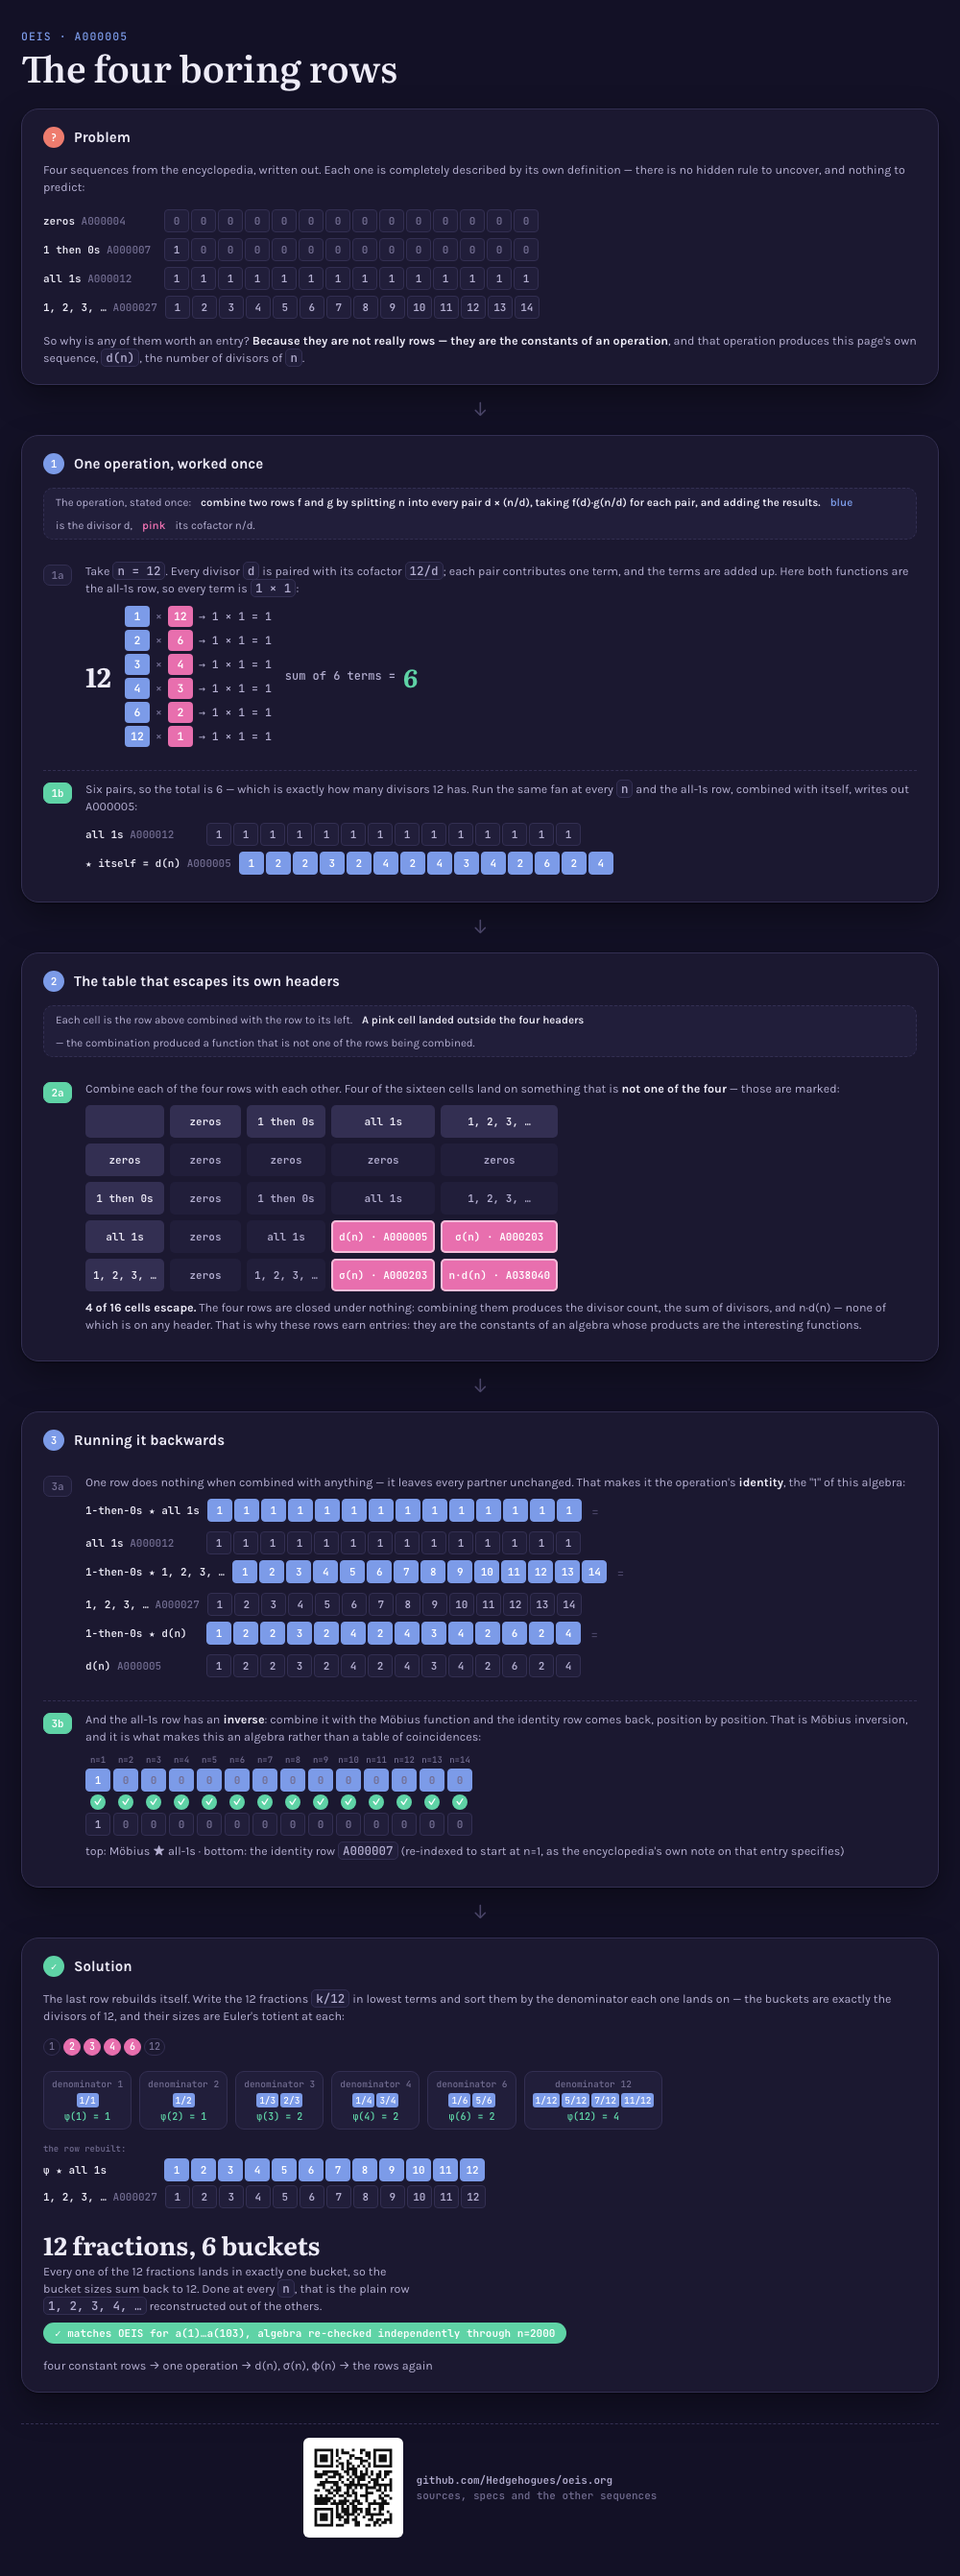
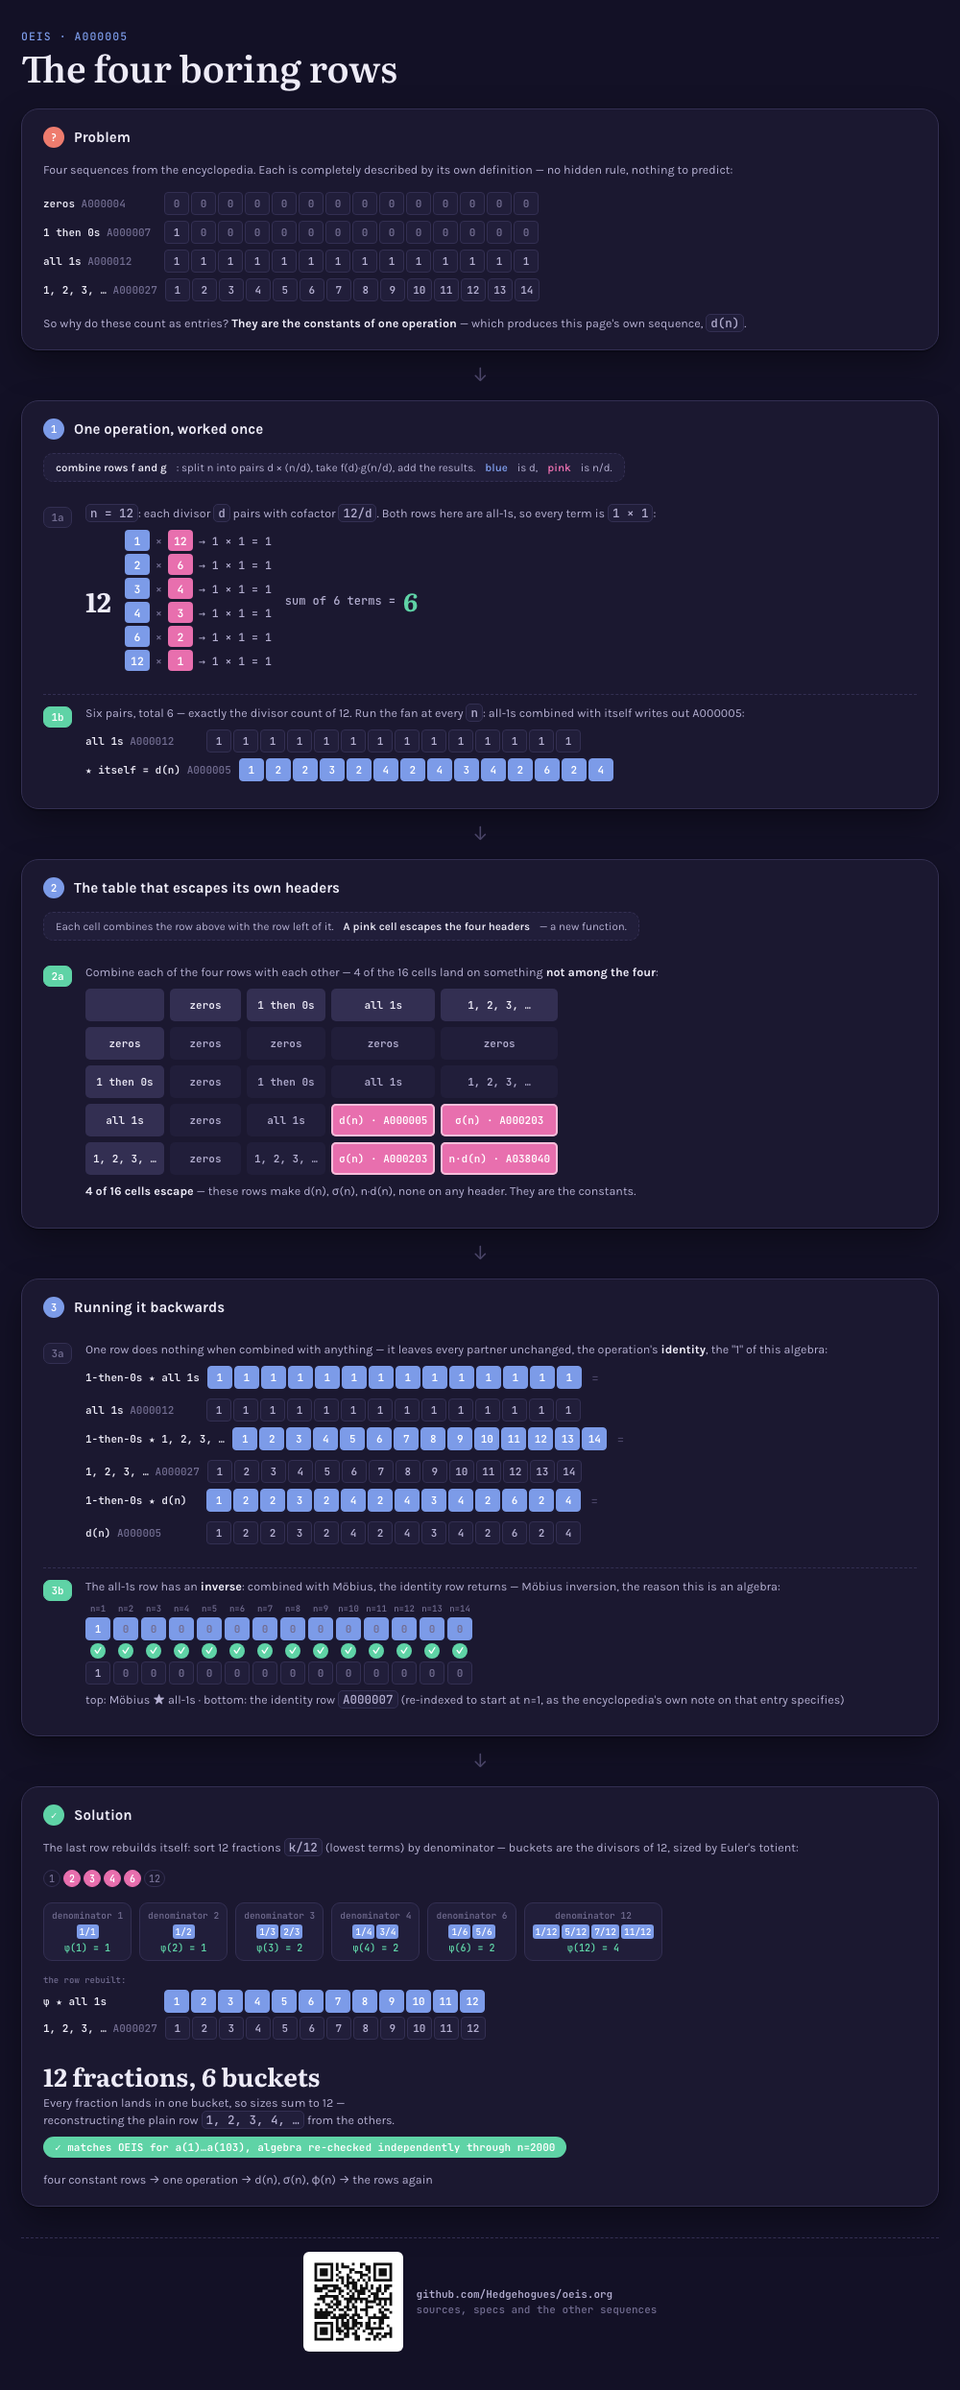
Add principle 17: mechanize legend/caption length, close the drift the retro found
Legend and step-narration word counts had grown page over page (A000001 -> A000002 ->
A000003 -> A000005) with nothing measuring it -- the same "held by memory, not by a check"
gap principle 9's own history names, just never closed for length. A000005 alone carried
two legends over a paragraph (37 and 36 words) and 12 step captions averaging 33.2 words.

- memory-bank/verify/captions.mjs: renders each page (Playwright), checks every `.legend`
  stays <=25 words and a page's `.subcap` paragraphs average <=25 words -- an average, not a
  flat total, so a page with more genuine decomposition steps (principle 12) isn't penalized
  for having more of them.
- Trimmed the six over-budget legends (A000001, A000003, A000005 x2) and A000005's twelve
  step captions down to fit, without cutting any device or dropping a step; re-captured the
  three touched pages' screenshots.
- Wired into `verify/all.mjs`; documented as principle 17 with its own precedent, in the same
  table format as the other five mechanized principles.

diff --git a/memory-bank/visualizations/A000005/viz.html b/memory-bank/visualizations/A000005/viz.html
@@ -151,12 +151,11 @@
   <!-- PROBLEM -->
   <section class="card" id="cardProblem">
     <h2><span class="no q">?</span> Problem</h2>
-    <p class="subcap">Four sequences from the encyclopedia, written out. Each one is completely
-      described by its own definition — there is no hidden rule to uncover, and nothing to predict:</p>
+    <p class="subcap">Four sequences from the encyclopedia. Each is completely described by its own
+      definition — no hidden rule, nothing to predict:</p>
     <div id="probRows" style="display:flex;flex-direction:column;gap:6px;"></div>
-    <p class="subcap">So why is any of them worth an entry? <b>Because they are not really rows —
-      they are the constants of an operation</b>, and that operation produces this page's own
-      sequence, <code>d(n)</code>, the number of divisors of <code>n</code>.</p>
+    <p class="subcap">So why do these count as entries? <b>They are the constants of one
+      operation</b> — which produces this page's own sequence, <code>d(n)</code>.</p>
   </section>
 
   <div class="flow">&darr;</div>
@@ -170,9 +169,8 @@
     <div class="sub">
       <div class="subno">1a</div>
       <div class="subbody">
-        <p class="subcap">Take <code>n = 12</code>. Every divisor <code>d</code> is paired with its
-          cofactor <code>12/d</code>; each pair contributes one term, and the terms are added up.
-          Here both functions are the all-1s row, so every term is <code>1 × 1</code>:</p>
+        <p class="subcap"><code>n = 12</code>: each divisor <code>d</code> pairs with cofactor
+          <code>12/d</code>. Both rows here are all-1s, so every term is <code>1 × 1</code>:</p>
         <div id="s1a"></div>
       </div>
     </div>
@@ -180,9 +178,8 @@
     <div class="sub">
       <div class="subno res">1b</div>
       <div class="subbody">
-        <p class="subcap">Six pairs, so the total is 6 — which is exactly how many divisors 12 has.
-          Run the same fan at every <code>n</code> and the all-1s row, combined with itself,
-          writes out A000005:</p>
+        <p class="subcap">Six pairs, total 6 — exactly the divisor count of 12. Run the fan at
+          every <code>n</code>: all-1s combined with itself writes out A000005:</p>
         <div id="s1b"></div>
       </div>
     </div>
@@ -197,8 +194,8 @@
     <div class="sub">
       <div class="subno res">2a</div>
       <div class="subbody">
-        <p class="subcap">Combine each of the four rows with each other. Four of the sixteen cells
-          land on something that is <b>not one of the four</b> — those are marked:</p>
+        <p class="subcap">Combine each of the four rows with each other — 4 of the 16 cells land
+          on something <b>not among the four</b>:</p>
         <div id="s2a"></div>
         <p class="subcap" id="s2aCap"></p>
       </div>
@@ -214,16 +211,15 @@
       <div class="subno">3a</div>
       <div class="subbody">
         <p class="subcap">One row does nothing when combined with anything — it leaves every
-          partner unchanged. That makes it the operation's <b>identity</b>, the "1" of this algebra:</p>
+          partner unchanged, the operation's <b>identity</b>, the "1" of this algebra:</p>
         <div id="s3a" style="display:flex;flex-direction:column;gap:6px;"></div>
       </div>
     </div>
     <div class="sub">
       <div class="subno res">3b</div>
       <div class="subbody">
-        <p class="subcap">And the all-1s row has an <b>inverse</b>: combine it with the Möbius
-          function and the identity row comes back, position by position. That is Möbius inversion,
-          and it is what makes this an algebra rather than a table of coincidences:</p>
+        <p class="subcap">The all-1s row has an <b>inverse</b>: combined with Möbius, the identity
+          row returns — Möbius inversion, the reason this is an algebra:</p>
         <div class="kover" id="s3b"></div>
       </div>
     </div>
@@ -234,18 +230,16 @@
   <!-- SOLUTION -->
   <section class="card" id="cardSolution">
     <h2><span class="no a">✓</span> Solution</h2>
-    <p class="subcap">The last row rebuilds itself. Write the 12 fractions <code>k/12</code> in
-      lowest terms and sort them by the denominator each one lands on — the buckets are exactly the
-      divisors of 12, and their sizes are Euler's totient at each:</p>
+    <p class="subcap">The last row rebuilds itself: sort 12 fractions <code>k/12</code> (lowest
+      terms) by denominator — buckets are the divisors of 12, sized by Euler's totient:</p>
     <div class="divs" id="solDivs" style="margin-bottom:2px;"></div>
     <div class="buckets" id="solBuckets"></div>
     <div class="subrow" style="gap:18px;align-items:center;">
       <div id="solRecap" style="display:flex;flex-direction:column;gap:4px;"></div>
       <div>
         <div class="big" id="solTotal">–</div>
-        <p class="subcap" style="max-width:400px;">Every one of the 12 fractions lands in exactly
-          one bucket, so the bucket sizes sum back to 12. Done at every <code>n</code>, that is the
-          plain row <code>1, 2, 3, 4, …</code> reconstructed out of the others.</p>
+        <p class="subcap" style="max-width:400px;">Every fraction lands in one bucket, so sizes
+          sum to 12 — reconstructing the plain row <code>1, 2, 3, 4, …</code> from the others.</p>
         <div class="badge" id="verifiedBadge" style="margin-top:8px;">✓ verified</div>
       </div>
     </div>
@@ -306,10 +300,9 @@
   /* ---- 1: the divisor-pair fan ---- */
   (function(){
     document.getElementById('opLegend').innerHTML =
-      'The operation, stated once: <b>combine two rows f and g by splitting n into every pair ' +
-      'd × (n/d), taking f(d)·g(n/d) for each pair, and adding the results.</b> ' +
-      '<span style="color:var(--spin);font-weight:600;">blue</span> is the divisor d, ' +
-      '<span style="color:var(--flip);font-weight:600;">pink</span> its cofactor n/d.';
+      '<b>combine rows f and g</b>: split n into pairs d × (n/d), take f(d)·g(n/d), add the results. ' +
+      '<span style="color:var(--spin);font-weight:600;">blue</span> is d, ' +
+      '<span style="color:var(--flip);font-weight:600;">pink</span> is n/d.';
 
     var n=12, ds=divisors(n);
     var fan=document.createElement('div'); fan.className='fan';
@@ -343,9 +336,8 @@
   /* ---- 2: the non-closing table ---- */
   (function(){
     document.getElementById('tableLegend').innerHTML =
-      'Each cell is the row above combined with the row to its left. ' +
-      '<b>A pink cell landed outside the four headers</b> — the combination produced a function ' +
-      'that is not one of the rows being combined.';
+      'Each cell combines the row above with the row left of it. ' +
+      '<b>A pink cell escapes the four headers</b> — a new function.';
 
     var N=40;
     var actorRows = ACTORS.map(function(A){ return row(A[2],N); });
@@ -382,10 +374,8 @@
     });
     document.getElementById('s2a').appendChild(grid);
     document.getElementById('s2aCap').innerHTML =
-      '<b>'+escaped+' of '+(ACTORS.length*ACTORS.length)+' cells escape.</b> The four rows are ' +
-      'closed under nothing: combining them produces the divisor count, the sum of divisors, and ' +
-      'n·d(n) — none of which is on any header. That is why these rows earn entries: they are the ' +
-      'constants of an algebra whose products are the interesting functions.';
+      '<b>'+escaped+' of '+(ACTORS.length*ACTORS.length)+' cells escape</b> — these rows make d(n), ' +
+      'σ(n), n·d(n), none on any header. They are the constants.';
   })();
 
   /* ---- 3: identity and inverse ---- */

diff --git a/memory-bank/visualizations/A000003/viz.html b/memory-bank/visualizations/A000003/viz.html
@@ -342,10 +342,8 @@
   var allForms = reducedForms(N);
 
   document.getElementById('domainLegend').innerHTML =
-    'Each reduced <code>(a, b, c)</code> plots as one point <b>τ = (−b + i·√56) / (2a)</b> in the ' +
-    'upper half-plane — position, not decoration. The shaded region is the standard ' +
-    '<b>fundamental domain</b> of the modular group: every reduced form of <i>any</i> discriminant ' +
-    'lands inside it, never outside.';
+    'Each reduced <code>(a, b, c)</code> plots as one point. The shaded region is the ' +
+    '<b>fundamental domain</b> — every reduced form lands inside it, never outside.';
 
   document.getElementById('s3a').appendChild(buildPlot(allForms, N, 260));
 

diff --git a/memory-bank/visualizations/A000001/viz.html b/memory-bank/visualizations/A000001/viz.html
@@ -586,8 +586,8 @@
     sample.appendChild(el('rect',{x:9,y:17,width:38,height:22,rx:2,'class':'flf'}));
     sample.appendChild(el('circle',{cx:41,cy:19,r:4.6,'class':'marker'}));
     var txt=document.createElement('div');
-    txt.innerHTML='<b>The white dot marks one corner.</b> Shapes here are symmetric, so a movement '+
-                  'would look like nothing happened — the dot is what shows where the shape went.';
+    txt.innerHTML='<b>The white dot marks one corner</b> — without it, a symmetric shape\'s movement '+
+                  'would look like nothing happened.';
     lg.appendChild(sample); lg.appendChild(txt);
     s1aHost.appendChild(lg);
   })();

diff --git a/.claude/rules/visualization-principles.md b/.claude/rules/visualization-principles.md
@@ -269,12 +269,35 @@ not in a caption beside it. Every page therefore ends with a QR code to
   and enlarging to 104px, after which both pages' `full.png` decoded to the repo URL on the first
   attempt.
 
+## 17. A legend stays one line and per-step narration grows only with the number of steps, both by measurement
+
+Principle 1's "state it once, as a one-line legend" and principle 12's per-step captions were, until
+this principle, held only by judgement — nobody re-read every page each time a new one shipped to
+check whether the growing pile of definitions and step narration was still short. It wasn't: across
+the five pages that existed when this was checked, legend and narration word counts climbed with
+every later page (`A000001` -> `A000002` -> `A000003` -> `A000005`), and two of `A000005`'s own
+legends had grown into full paragraphs (37 and 36 words) with nothing to flag it — the exact "held
+by memory, not by a check" gap principle 9's own history already names, just never closed for length.
+
+- MUST: a `.legend` element's rendered text stays at or under 25 words — roughly one sentence,
+  matching principle 1's own "one-line" wording.
+- MUST: a page's `.subcap` paragraphs average at or under 25 words each. This is an AVERAGE, not a
+  flat per-page total, on purpose — principle 12 deliberately lets a page with more genuine steps
+  carry more narration; the budget scales with step count instead of penalizing a longer, honestly
+  decomposed chain.
+- Precedent: `A000005`'s two legends ("The operation, stated once: combine two rows f and g by
+  splitting n into every pair d × (n/d)...", 37 words; "Each cell is the row above combined with
+  the row to its left...", 36 words) and its twelve step captions (averaging 33.2 words) were all
+  trimmed to fit — without cutting any of the three devices they explain — once a check finally
+  measured them. `A000001` and `A000003` each had one legend over the limit too (28 and 47 words),
+  found only because the same check ran against every page, not just the one being edited.
+
 Trigger: any request to explain an OEIS sequence with a picture — a new device record, a
 per-sequence page, an edit to an existing visualization; an invocation of the `explain-sequence`
 skill; adding or editing any `[device::*]` record.
 Mechanization: `node memory-bank/verify/all.mjs` exits non-zero on a violation of principles 9, 11,
-14, 15 and 16, and every one of those checks was proved by reintroducing the exact fault it exists
-for rather than merely written:
+14, 15, 16 and 17, and every one of those checks was proved by reintroducing the exact fault it
+exists for rather than merely written:
 
 | # | check | the fault it was tested against |
 |---|---|---|
@@ -283,17 +306,21 @@ for rather than merely written:
 | 14 | `verify/catalog.mjs` | renaming the element a device record describes, leaving the record pointing at nothing |
 | 15 | `verify/pages.mjs` | restoring the old teal accent and a different page ground |
 | 16 | `verify/qr.mjs` | re-theming the QR and shrinking it, then re-capturing |
+| 17 | `verify/captions.mjs` | a legend or step caption growing past its word budget, page over page, unnoticed |
 
 The rest stay judgement calls, and saying so is the point of listing them: principles 1, 2, 7 and
-12 are about whether a decomposition is honest, which no script decides. Principles 4, 6 and 10
-need a human looking at a rendered screenshot — nothing static distinguishes a merged bar from four
-touching ones, or a visible marker from an invisible one. Principles 3, 5, 8 and 13 have cheap
-greps (a header/body class distinction; a bare arrow glyph with no adjacent label; a count badge
-with no highlighted cells nearby; Cyrillic in a tracked file) that are run by hand and have not
-been worth wiring up.
+12 are about whether a decomposition is honest, which no script decides — principle 17 mechanizes
+only their LENGTH, not whether a given definition or step is worth stating at all. Principles 4, 6
+and 10 need a human looking at a rendered screenshot — nothing static distinguishes a merged bar
+from four touching ones, or a visible marker from an invisible one. Principles 3, 5, 8 and 13 have
+cheap greps (a header/body class distinction; a bare arrow glyph with no adjacent label; a count
+badge with no highlighted cells nearby; Cyrillic in a tracked file) that are run by hand and have
+not been worth wiring up.
 
 The history this file records is the argument for the table above. Every principle in it was
 learned from a correction rather than from foresight, and two were learned twice: the marker legend
 was deleted, restored after the reader asked what the shapes meant, then deleted again by a later
 redesign and noticed only when a check was finally written for it. The compensation so far has been
-the reader's own questions, which is exactly what should not be the mechanism going forward.
+the reader's own questions, which is exactly what should not be the mechanism going forward —
+principle 17 exists because that pattern was about to repeat a third time, on text length instead of
+a deleted legend, and nobody had asked yet.
